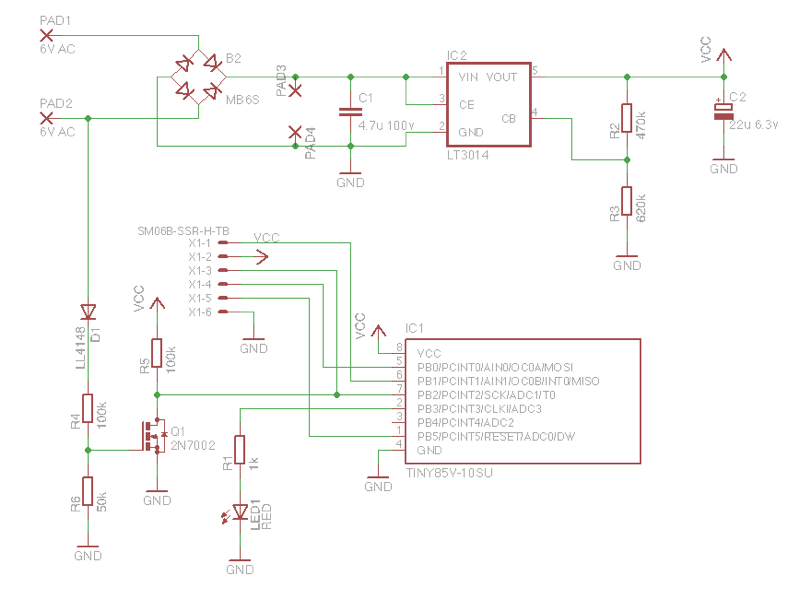
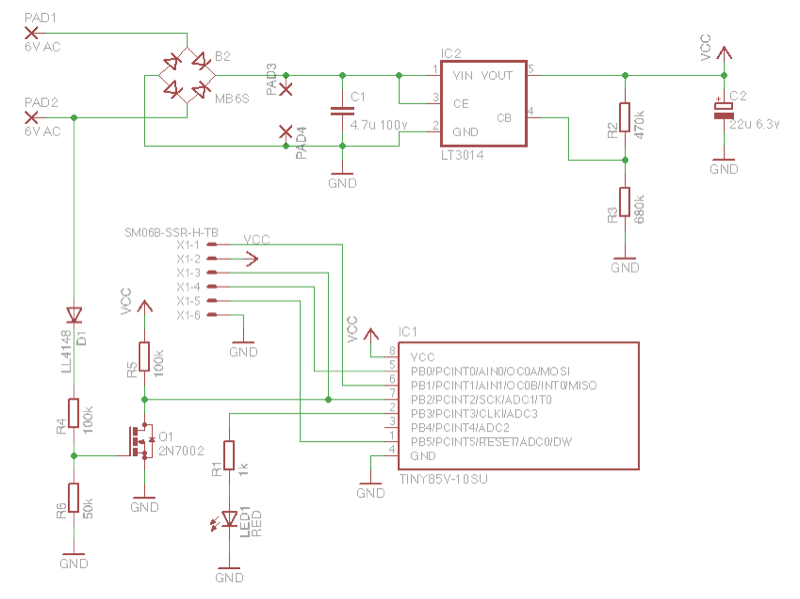
updated resistor

diff --git a/docs/Hardware.md b/docs/Hardware.md
@@ -37,7 +37,7 @@ Below you can see the prototype PCB. It is about 20x10 mm in size:
 |Q1      | 2N7002            | SOT23          |
 |R1      | 1k                | 0805           |
 |R2      | 470k              | 0805           |
-|R3      | 620k              | 0805           |
+|R3      | 680k              | 0805           |
 |R4      | 100k              | 0805           |
 |R5      | 100k              | 0805           |
 |R6      | 50k               | 0805           |
